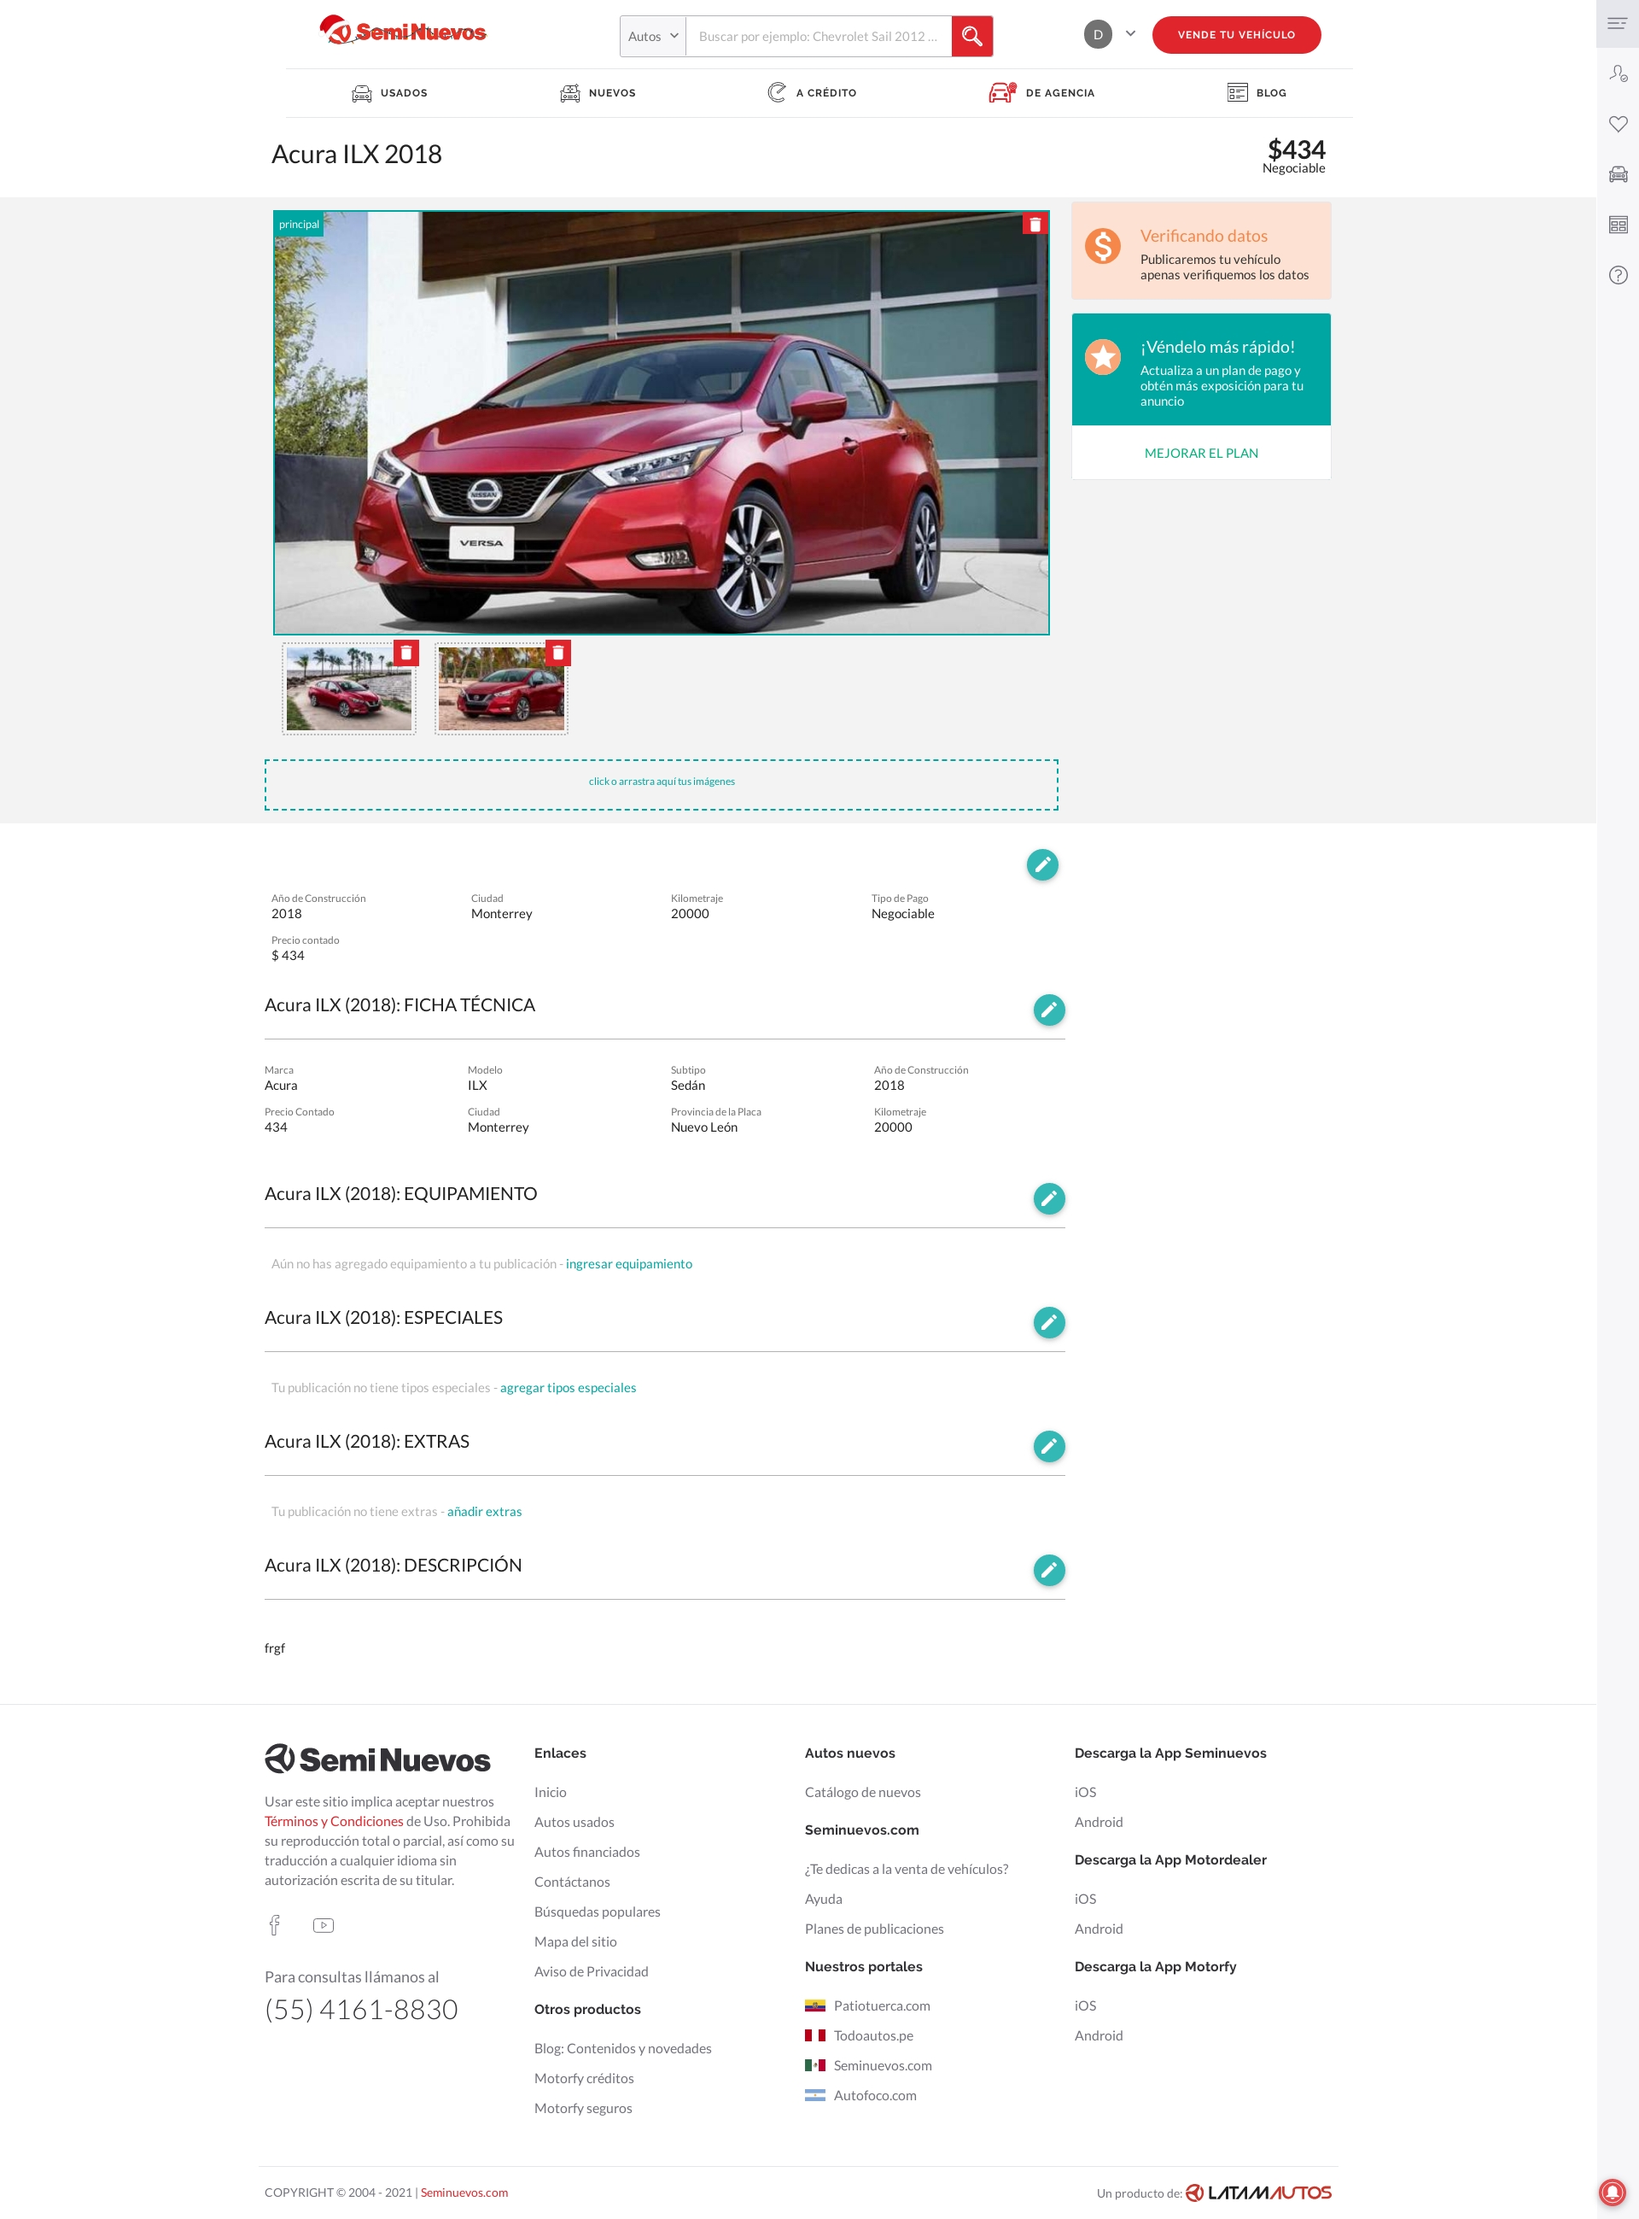
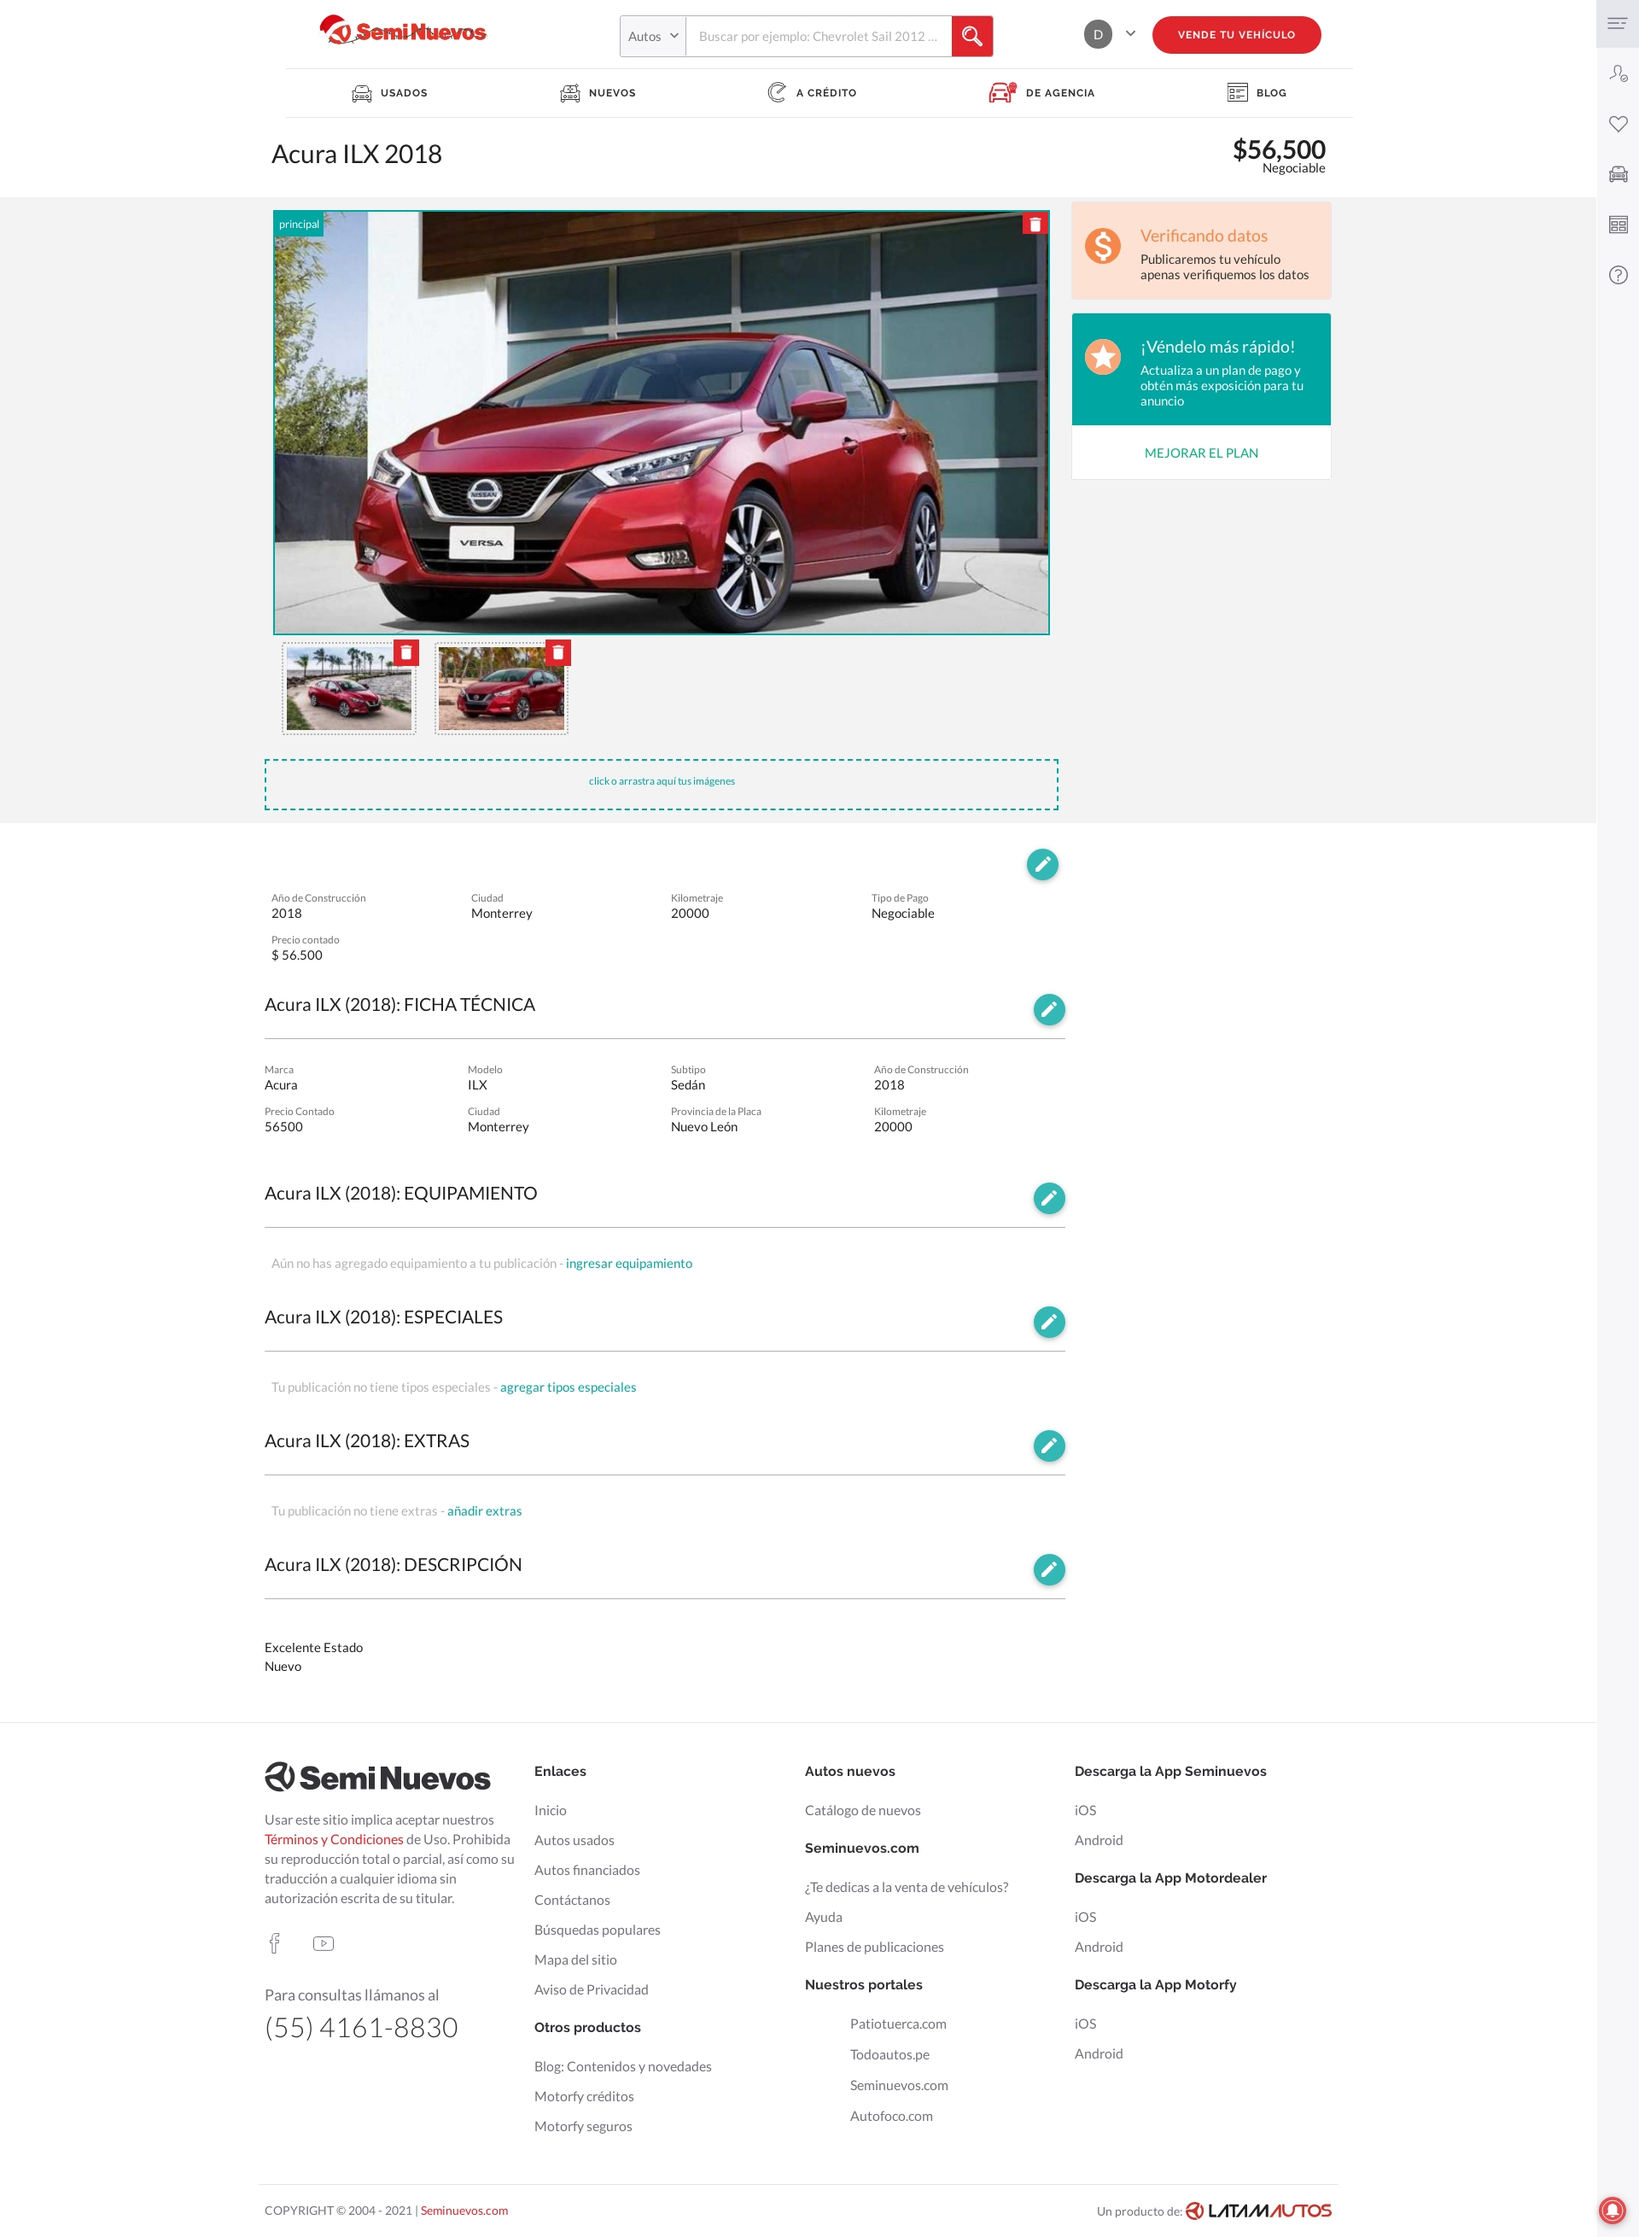
Cliente listo, Agregue validaciones de campos, los componentes para visualizar la imagen

diff --git a/client/src/components/Image.jsx b/client/src/components/Image.jsx
@@ -1,0 +1,82 @@
+import { useContext, useState } from "react";
+
+import { makeStyles } from "@material-ui/core/styles";
+import { Card, Grid } from "@material-ui/core";
+import CardActionArea from "@material-ui/core/CardActionArea";
+import CardActions from "@material-ui/core/CardActions";
+import CardContent from "@material-ui/core/CardContent";
+import CardMedia from "@material-ui/core/CardMedia";
+import Button from "@material-ui/core/Button";
+import Typography from "@material-ui/core/Typography";
+
+import PublicNewCarContext from "../context/CreateNewCarContext";
+
+import ModalImage from "./ModalImage";
+
+const useStyles = makeStyles({
+  root: {
+    width: "100%",
+  },
+  media: {
+    height: 140,
+    width: "100%",
+  },
+});
+
+const Image = () => {
+  const [openImage, setOpenImage] = useState(false);
+
+  const { image, description, price } = useContext(PublicNewCarContext);
+  const classes = useStyles();
+
+  return (
+    <>
+      {image ? (
+        <Grid item md={8} xs>
+          <Card className={classes.root}>
+            <CardActionArea
+              onClick={() => setOpenImage(!openImage ? true : false)}
+            >
+              <CardMedia
+                className={classes.media}
+                image={image}
+                title="Contemplative Reptile"
+              />
+              <CardContent>
+                <Typography gutterBottom variant="h5" component="h2">
+                  Descripcion
+                </Typography>
+                <Typography variant="body2" color="textSecondary" component="p">
+                  {description}
+                </Typography>
+                <Typography
+                  variant="subtitle1"
+                  color="textPrimary"
+                  component="samp"
+                >
+                  Precio ${price}
+                </Typography>
+              </CardContent>
+            </CardActionArea>
+            <CardActions>
+              <Button
+                size="small"
+                color="primary"
+                onClick={() => setOpenImage(!openImage ? true : false)}
+              >
+                Ver Imagen Completa
+              </Button>
+            </CardActions>
+            <ModalImage
+              setOpenImage={setOpenImage}
+              openImage={openImage}
+              image={image}
+            />
+          </Card>
+        </Grid>
+      ) : null}
+    </>
+  );
+};
+
+export default Image;

diff --git a/client/src/App.js b/client/src/App.js
@@ -7,12 +7,22 @@ import Form from "./components/form/Form";
 import Header from "./components/Header";
 
 import AlertMessage from "./components/AlertMessage";
+import Image from "./components/Image";
+import Grid from "@material-ui/core/Grid";
 
 const useStyles = makeStyles({
-  ctn: {
-    backgroundColor: "#222222",
-    width: "100%",
-    height: "100vh",
+  root: {
+    minWidth: "100%",
+    maxWidth: "100%",
+
+    overflow: "hidden",
+  },
+  container: {
+    padding: "15px",
+    justifyContent: "start",
+    justifyItems: "start",
+    alignItems: "start",
+    alignContent: "center",
   },
 });
 
@@ -21,12 +31,27 @@ function App() {
 
   return (
     <>
-      <div className={classes.ctn}>
+      <div className={classes.root}>
         <Header />
         <NewCarProvider>
           <StatusContextProvider>
-            <AlertMessage/>
-            <Form />
+            <div className={classes.container}>
+              <AlertMessage />
+              <Grid
+                container
+                spacing={1}
+                direction="row"
+                justify="center"
+                alignItems="flex-start"
+                alignContent="center"
+                wrap="wrap"
+              >
+                <Grid item md={4} sm>
+                  <Form />
+                </Grid>
+                <Image />
+              </Grid>
+            </div>
           </StatusContextProvider>
         </NewCarProvider>
       </div>

diff --git a/client/src/components/form/PublicButton.jsx b/client/src/components/form/PublicButton.jsx
@@ -36,7 +36,24 @@ const PublicButton = () => {
   const fetchAPI = async (e) => {
     e.preventDefault();
 
-    if (!price && !description) return;
+    console.log(description);
+    if (price <= 0 && description.trim() === "") {
+      setShowAlert(true);
+      setAlertInfo({
+        message: "Todos los campos son Requeridos",
+        typeAlert: "error",
+        title: "Error",
+      });
+      setTimeout(() => {
+        setShowAlert(false);
+        setAlertInfo({
+          message: "",
+          typeAlert: "",
+          title: "",
+        });
+      }, 5000);
+      return;
+    }
 
     if (showAlert) {
       setShowAlert(false);
@@ -49,9 +66,24 @@ const PublicButton = () => {
 
     setIsLoading(true);
     const response = await publicNewCar(price, description);
-    if (!response.data) {
+    if (!response) {
+      setShowAlert(true);
+      setAlertInfo({
+        message: "Hemos tenido un error, porfavor intentalo otra vez",
+        typeAlert: "error",
+        title: "Error",
+      });
+      setTimeout(() => {
+        setShowAlert(false);
+        setAlertInfo({
+          message: "",
+          typeAlert: "",
+          title: "",
+        });
+      }, 5000);
+      return;
     }
-    setImage(response.data.image);
+    setImage(response);
     setIsLoading(false);
     setShowAlert(true);
     setAlertInfo({

diff --git a/client/src/components/ModalImage.jsx b/client/src/components/ModalImage.jsx
@@ -1,0 +1,36 @@
+import React from "react";
+import Button from "@material-ui/core/Button";
+import Dialog from "@material-ui/core/Dialog";
+import DialogActions from "@material-ui/core/DialogActions";
+import DialogContent from "@material-ui/core/DialogContent";
+
+
+
+export default function ResponsiveDialog({ setOpenImage, openImage, image }) {
+
+
+
+  const handleClose = () => {
+    setOpenImage(false);
+  };
+
+  return (
+    <div>
+      <Dialog
+        fullScreen
+        open={openImage}
+        onClose={handleClose}
+        aria-labelledby="responsive-dialog-title"
+      >
+        <DialogContent>
+          <img src={image} alt="fullview" style={{width: '100%'}}/>
+        </DialogContent>
+        <DialogActions>
+          <Button autoFocus onClick={handleClose} color="primary">
+            Cerrar
+          </Button>
+        </DialogActions>
+      </Dialog>
+    </div>
+  );
+}

diff --git a/client/src/components/form/Form.jsx b/client/src/components/form/Form.jsx
@@ -19,7 +19,7 @@ import { makeStyles } from "@material-ui/core/styles";
 
 const useStyles = makeStyles((theme) => ({
   paper: {
-    marginTop: theme.spacing(8),
+    
     display: "flex",
     flexDirection: "column",
     alignItems: "center",
@@ -33,12 +33,12 @@ const useStyles = makeStyles((theme) => ({
     marginTop: theme.spacing(1),
   },
   price: {
-    width: "50%",
+    textAlign: "center"
   },
   container: {
     backgroundColor: "#fff",
     borderRadius: 3,
-    height: "320px",
+    height: "auto",
   },
 }));
 
@@ -73,6 +73,7 @@ const Form = () => {
             value={price}
             onChange={(e) => setPrice(e.target.value)}
             disabled={isLoading}
+            
           />
           <TextField
             value={description}

diff --git a/client/src/components/AlertMessage.jsx b/client/src/components/AlertMessage.jsx
@@ -10,7 +10,9 @@ import CloseIcon from "@material-ui/icons/Close";
 
 const useStyles = makeStyles((theme) => ({
   root: {
-    width: "60%",
+    width: "50%",
+    minWidth: 300,
+    padding: "15px auto",
     margin: "auto",
     "& > * + *": {
       marginTop: theme.spacing(2),
@@ -18,6 +20,7 @@ const useStyles = makeStyles((theme) => ({
   },
   alert: {
     marginTop: "10px",
+    marginBottom: "10px",
   },
 }));
 
@@ -35,7 +38,7 @@ const AlertMessage = () => {
         <Alert
           className={classes.alert}
           variant="filled"
-          color={alertInfo.alertType}
+          color={alertInfo.typeAlert}
           action={
             <IconButton
               aria-label="close"

diff --git a/client/src/utils/fetchAPI.js b/client/src/utils/fetchAPI.js
@@ -3,7 +3,7 @@ import axios from "axios";
 let URL = "http://localhost:4000";
 
 export const publicNewCar = async (price, description) => {
-  return await axios.post(`${URL}/vehicle`, {
+  let response = await axios.post(`${URL}/vehicle`, {
     headers: {
       "Content-Type": "application/json",
     },
@@ -11,4 +11,5 @@ export const publicNewCar = async (price, description) => {
     price: price,
     description: description,
   });
+  return URL + response.data.image;
 };

diff --git a/client/src/context/CreateNewCarContext.js b/client/src/context/CreateNewCarContext.js
@@ -4,7 +4,7 @@ const Context = createContext({});
 export default Context;
 
 export const NewCarProvider = ({ children }) => {
-  const [price, setPrice] = useState(0);
+  const [price, setPrice] = useState(null);
   const [description, setDescription] = useState("");
   const [image, setImage] = useState("");
   const [loading, setLoading] = useState(false);

diff --git a/client/src/components/Header.jsx b/client/src/components/Header.jsx
@@ -6,6 +6,8 @@ import { makeStyles } from "@material-ui/styles";
 const useStyles = makeStyles({
   barStyle: {
     backgroundColor: "#318dc3",
+    width: "100%",
+    
   },
 });
 

diff --git a/client/src/index.css b/client/src/index.css
@@ -1,3 +1,5 @@
 body{
-  background-color: #222222 ;
+  width:100%;
+  height:100%;
+  background-color: #222222 !important;
 }
